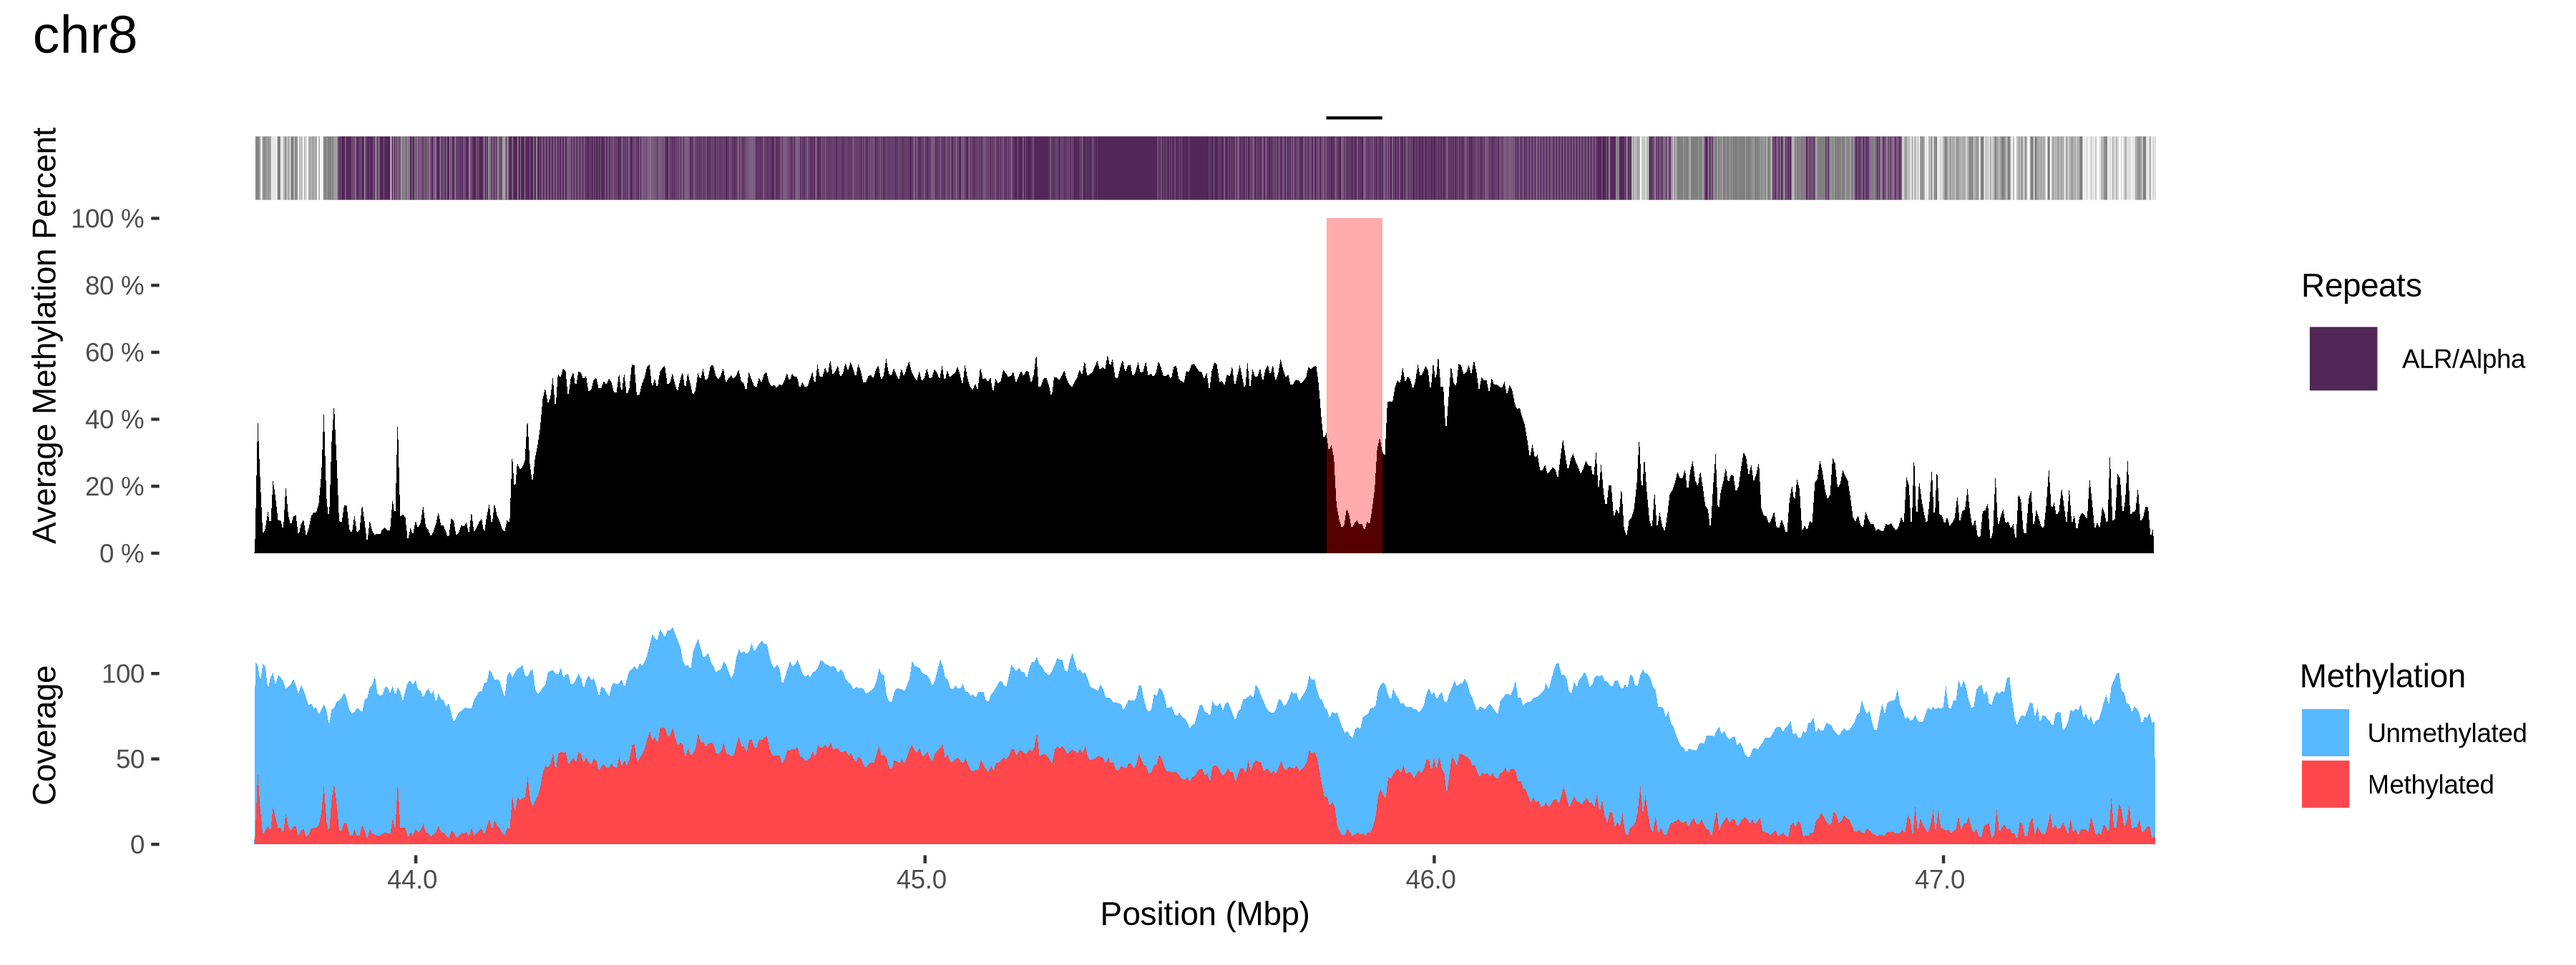
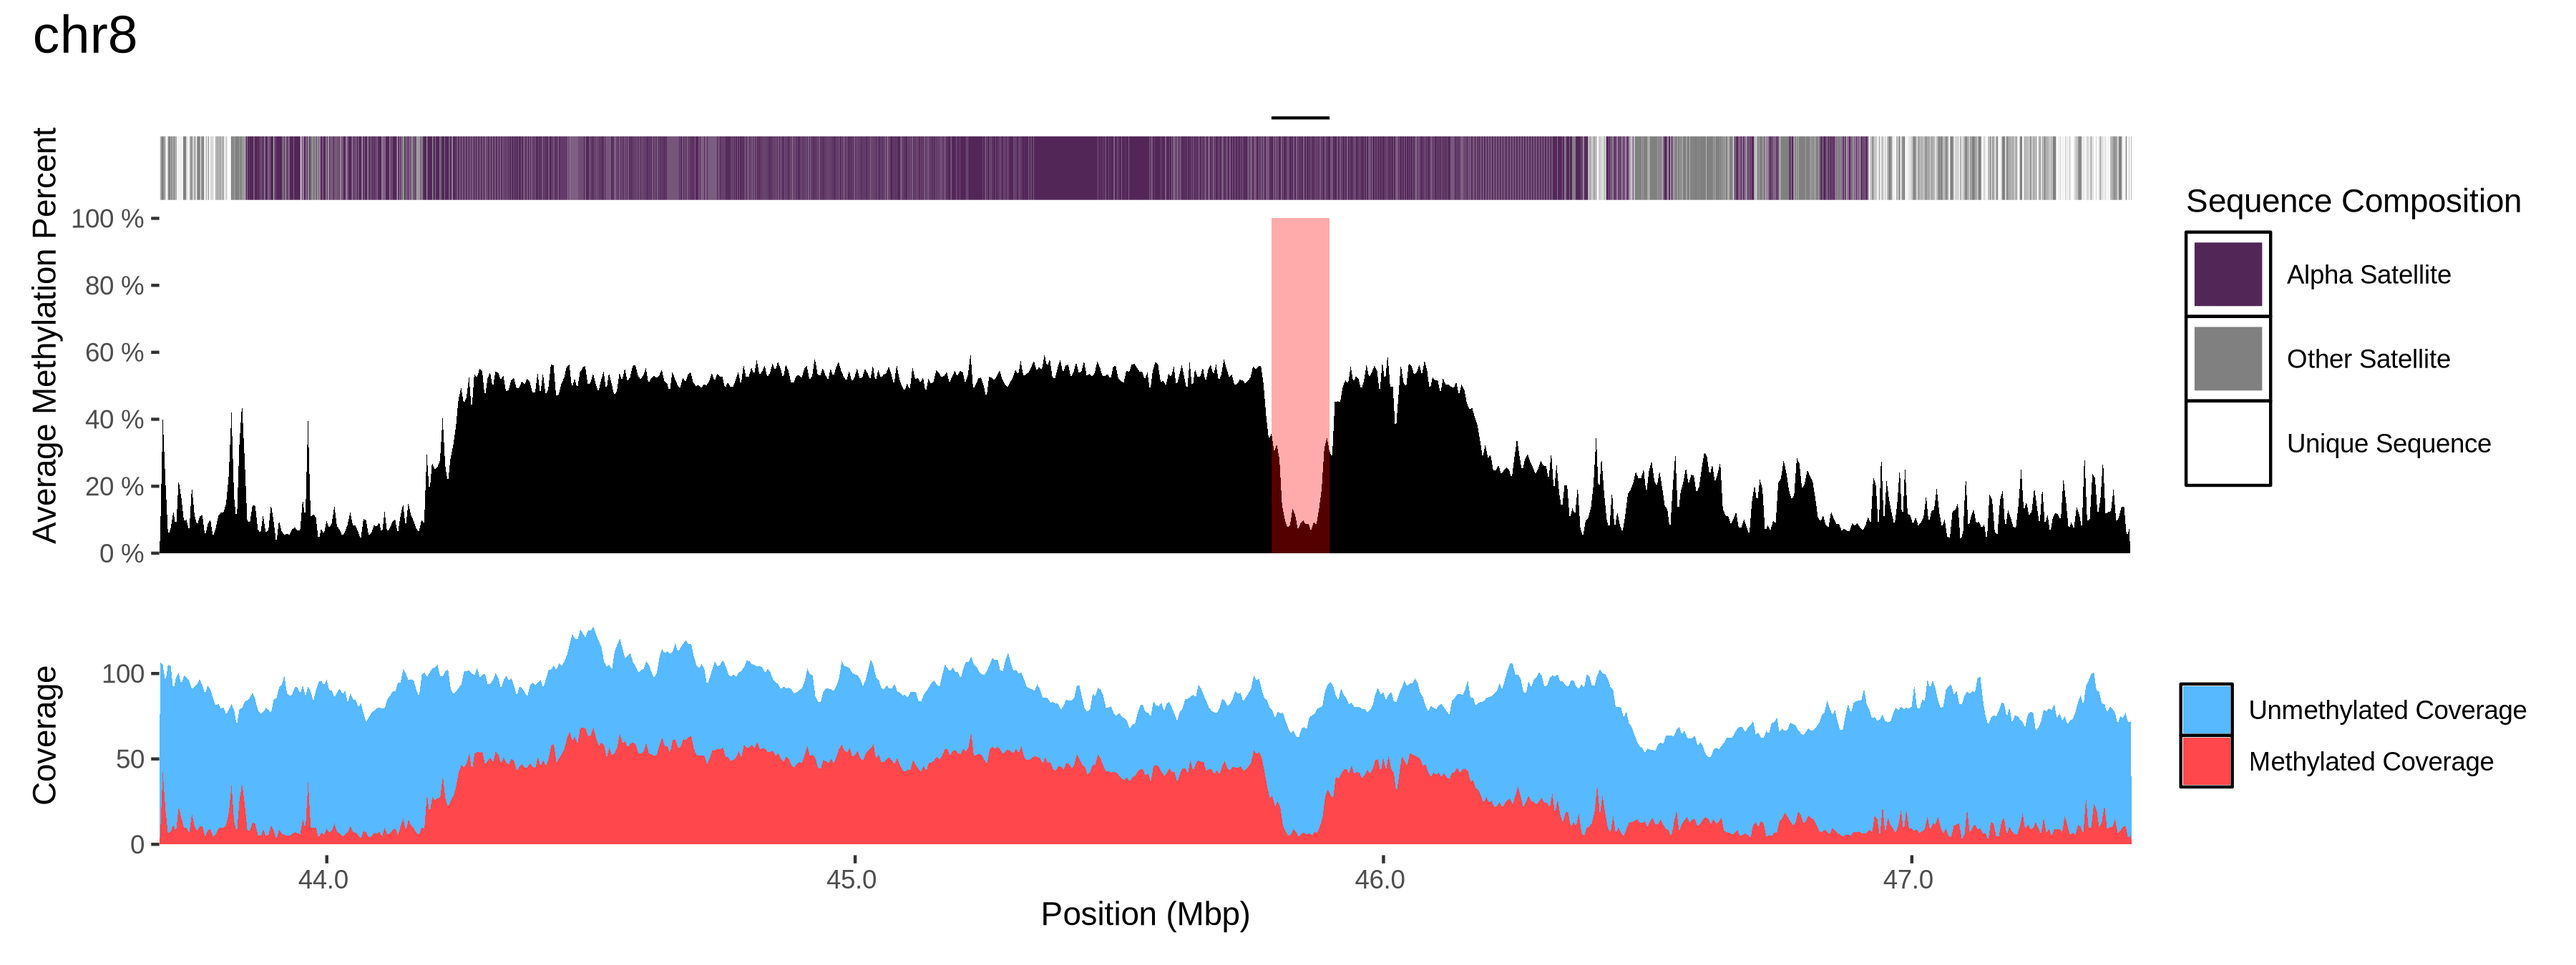
Add edge heuristic option. Update plot with suggestions.

diff --git a/workflow/scripts/cdr_finder.py b/workflow/scripts/cdr_finder.py
@@ -1,6 +1,7 @@
 import sys
 import math
 import argparse
+import statistics
 from collections import defaultdict
 from typing import Iterable
 
@@ -71,6 +72,13 @@ def main():
         type=int,
         default=5_000,
         help="Bases to look on both edges of cdr to determine effective height.",
+    )
+    ap.add_argument(
+        "--edge_height_heuristic",
+        type=str,
+        choices=["min", "max", "avg"],
+        default="min",
+        help="Heuristic used to determine edge height of CDR.",
     )
 
     args = ap.parse_args()
@@ -163,15 +171,22 @@ def main():
                 cdr_low = df_cdr["avg"].min()
                 cdr_right_median = df_cdr_right["avg"].median()
                 cdr_left_median = df_cdr_left["avg"].median()
+
                 # If empty, use median.
-                cdr_edge_height = min(
+                edge_heights = [
                     cdr_right_median
                     if cdr_right_median
                     else df_chr_methyl_adj_grp["avg"].median(),
                     cdr_left_median
                     if cdr_left_median
                     else df_chr_methyl_adj_grp["avg"].median(),
-                )
+                ]
+                if args.edge_height_heuristic == "min":
+                    cdr_edge_height = min(edge_heights)
+                elif args.edge_height_heuristic == "max":
+                    cdr_edge_height = max(edge_heights)
+                else:
+                    cdr_edge_height = statistics.mean(edge_heights)
 
                 # Calculate the height of this CDR looking at edges.
                 cdr_height = cdr_edge_height - cdr_low

diff --git a/README.md b/README.md
@@ -101,6 +101,7 @@ Multiple samples can be provided via the configfile. Each sample should contain 
 |`bp_edge`|Distance in bases to check CDR edges. Used to determine height of dip. Large values give better estimates of true height.|500,000|
 |`height_perc_valley_threshold`|Threshold percent of the median methylation percentage needed as the minimal height of a valley from the median. Larger values filter for deeper valleys.|0.34|
 |`prom_perc_valley_threshold`|Threshold percent of the median methylation percentage needed as the minimal [prominence](https://en.wikipedia.org/wiki/Topographic_prominence) of a valley from the median. Larger values filter for more prominent valleys. Helps in removing low-confidence CDRs.|0.3|
+|`edge_height_heuristic`|Heuristic used when determining edge height of CDR. Either min, max, or avg.|min|
 
 See [`docs/ISSUES.md`](docs/ISSUES.md) for edge-cases and effects of parameter tuning.
 
